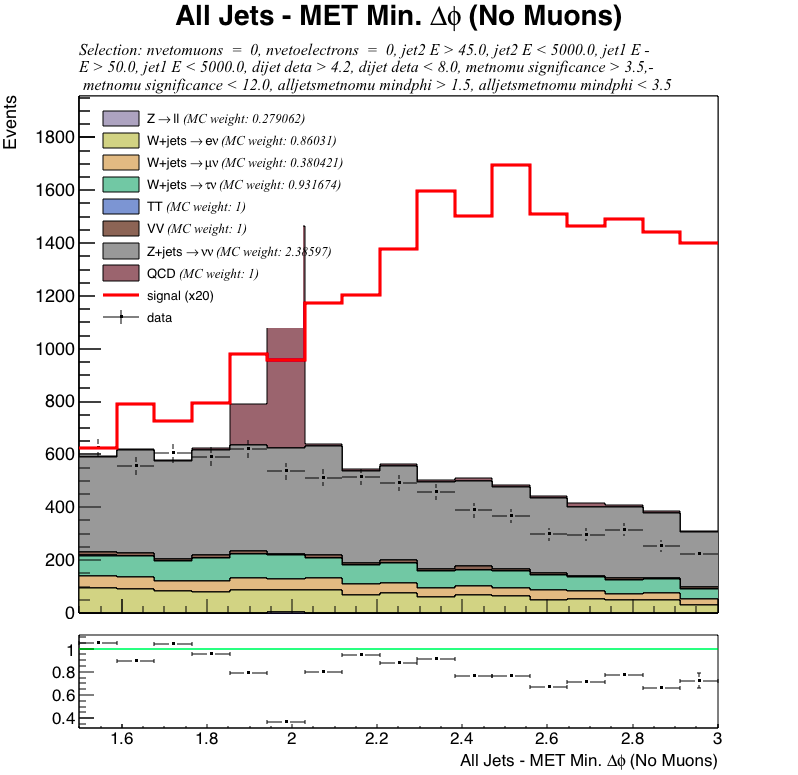
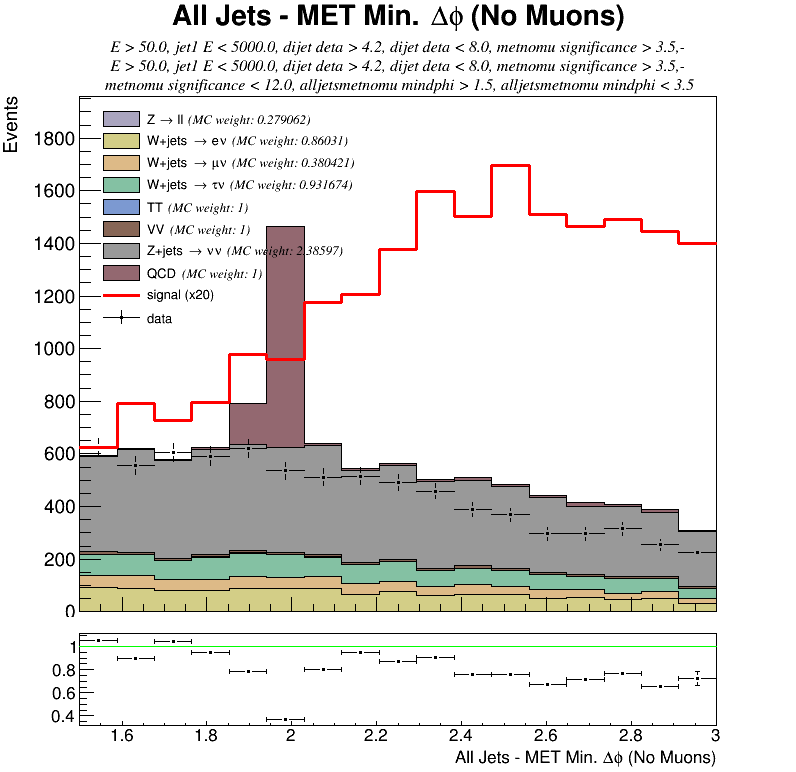
subtitle works with Tpavetext

diff --git a/src/histo_plot.cpp b/src/histo_plot.cpp
@@ -31,13 +31,14 @@ void HistoPlot::draw_plot(Variable* var, std::vector<DataChain*> bg_chains,
   TH1F* plot_histos[3] = {(TH1F*)(stack.GetStack()->Last()), data_histo, signal_histo};
   TH1F* max_histo 	   	= get_max_histo(plot_histos);
 
-  draw_subtitle(var, variables, with_cut, data);
   stack.SetMaximum(get_histo_y_max(max_histo)*1.1);
   build_legend(legend, max_histo, var, with_cut);
+  draw_subtitle(var, variables, with_cut, data);
 
   p3->cd();
   TH1F* data_bg_ratio_histo = data_to_bg_ratio_histo(plot_histos[1], plot_histos[0]);
   data_bg_ratio_histo->Draw("e1");
+
 
   style_ratio_histo(data_bg_ratio_histo, var->name_styled);
   draw_yline_on_plot(var, with_cut, 1.0);
@@ -176,24 +177,26 @@ void HistoPlot::draw_subtitle(Variable* variable, std::vector<Variable*>* variab
 		std::string selection = "Selection: " + style_selection(get_selection(variable, variables, with_cut, false, data));
 		std::replace(selection.begin(), selection.end(), '(', ' ');
 		std::replace(selection.begin(), selection.end(), ')', ' ');
-		std::string line_1 = "#font[12]{" + selection.substr(0, 90) + "-}";
-		std::string line_2 = "#font[12]{" + selection.substr(88, 90) + "-}";
-		std::string line_3 = "#font[12]{" + selection.substr(178, 88) + "}";
+		std::string l1 = "#font[12]{" + selection.substr(0, 90) + "-}";
+		std::string l2 = "#font[12]{" + selection.substr(88, 90) + "-}";
+		std::string l3 = "#font[12]{" + selection.substr(178, 88) + "}";
+	 const char* line_1=l2.c_str();
+	 const char* line_2=l2.c_str();
+	 const char* line_3=l3.c_str();
 
-	 TLatex t;
-	 t.SetTextSize(0.03);
-	 t.DrawLatexNDC(0.1, 0.97, line_1.c_str());
-		t.Draw();
 
-		TLatex d;
-		d.SetTextSize(0.03);
-		d.DrawLatexNDC(0.1, 0.94, line_2.c_str());
-		d.Draw();
+	 TPaveText* pts = new TPaveText(0.1, 1.0, 0.9, 0.9, "blNDC");
+	 pts->SetBorderSize(0);
+	 pts->SetFillColor(0);
+	 pts->AddText(line_1);
+         pts->AddText(line_2);
+	 pts->AddText(line_3);
 
-		TLatex f;
-		f.SetTextSize(0.03);
-		f.DrawLatexNDC(0.1, 0.91, line_3.c_str());
-		f.Draw();
+	 pts->SetAllWith(line_1, "size", 0.03);
+	 pts->SetAllWith(line_2, "size", 0.03);
+ 	 pts->SetAllWith(line_3, "size", 0.03);
+
+	 pts->Draw();
 }
 
 
@@ -245,6 +248,7 @@ void HistoPlot::build_legend(TLegend* legend, TH1F* max_histo, Variable* var, bo
   legend->SetX1(x1);
   legend->SetX2(x2);
   legend->Draw();
+
 }
 
 double HistoPlot::position_legend_x1(TH1F* max_histo, Variable* var, bool with_cut)
@@ -295,6 +299,7 @@ void HistoPlot::style_legend(TLegend* legend)
 {
   legend->SetTextSize(0.025);
   legend->SetBorderSize(0);
+  legend->SetFillStyle(0);
 }
 
 TH1F* HistoPlot::build_1d_histo(DataChain* data_chain, Variable* variable, bool with_cut, bool is_signal,
